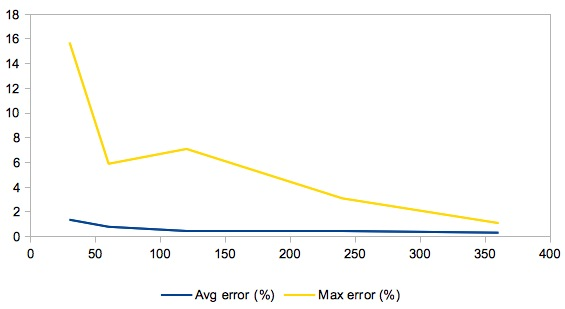
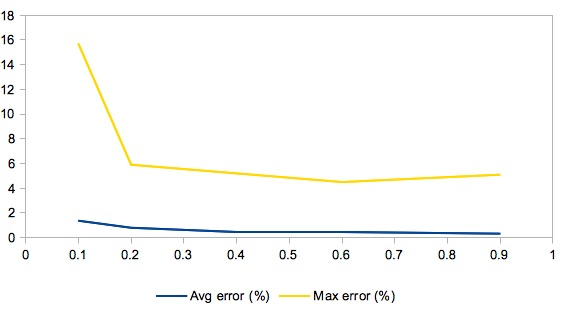
modified:   README.md 	new file:   granul.jpg 	new file:   granul2.jpg 	new file:   granul3.jpg 	new file:   granul4.jpg 	modified:   ratio2.jpg

Changed region(s): [[0.0, 0.0291, 1.0, 0.8447], [0.1212, 0.1165, 0.9091, 0.6408], [0.2727, 0.932, 0.7273, 0.9903]]

diff --git a/4/README.md b/4/README.md
@@ -70,7 +70,7 @@ We are going to discover algorithm dependency on such parameters:
 
 **knapsack capacity to total weight ratio:** m = {0.1, 0.2, 0.4, 0.6, 0.9}
 
-**granularity from small to big:** k = {-0.4, -0.2, -0.1, -0.05, 0, 0.05, 0.1, 0.2, 0.4} 
+**granularity from small to big:** k = {0.1, 0.2, 0.4, 0.8, 1.6} 
 
 ### Results of the measurements
 
@@ -112,7 +112,13 @@ Relative error plot looks like:
 ![Ratio2](https://raw.github.com/platomik/mie-paa/master/4/ratio2.jpg)
 
 
-Granul (BB DP) (Heur) JZ
+###### Granularity from small to big
+for small items -d parameter =-1
+![Granul](https://raw.github.com/platomik/mie-paa/master/4/granul.jpg)
+![Granul2](https://raw.github.com/platomik/mie-paa/master/4/granul2.jpg)
+for big items -d par =1
+![Granul3](https://raw.github.com/platomik/mie-paa/master/4/granul3.jpg)
+![Granul4](https://raw.github.com/platomik/mie-paa/master/4/granul4.jpg)
 
 
 
